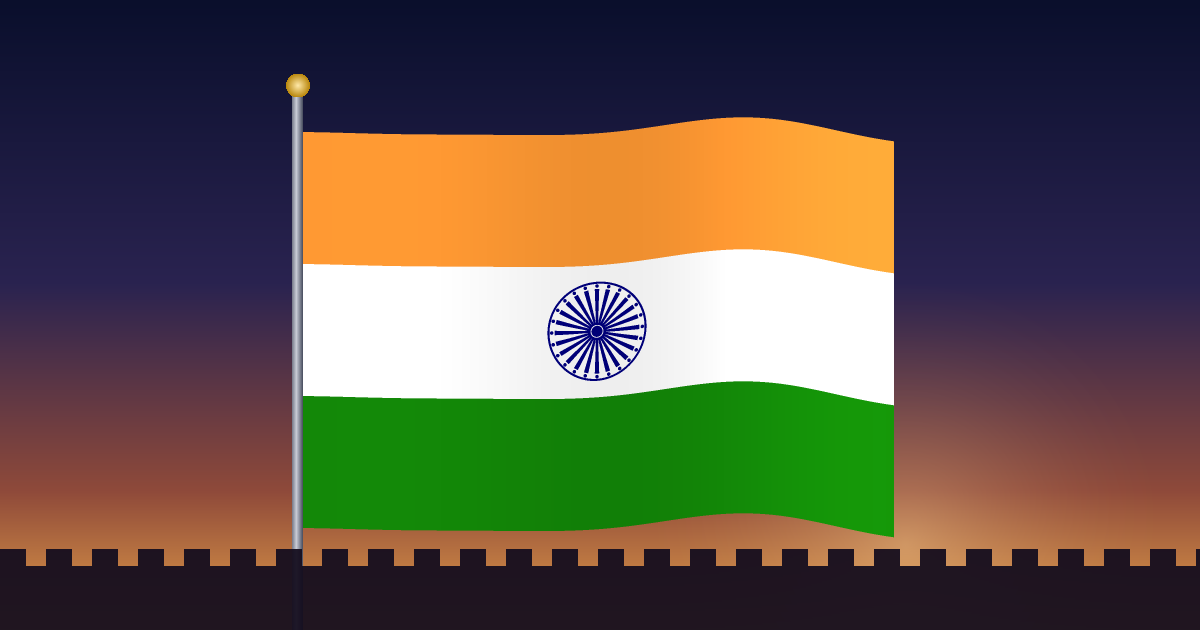
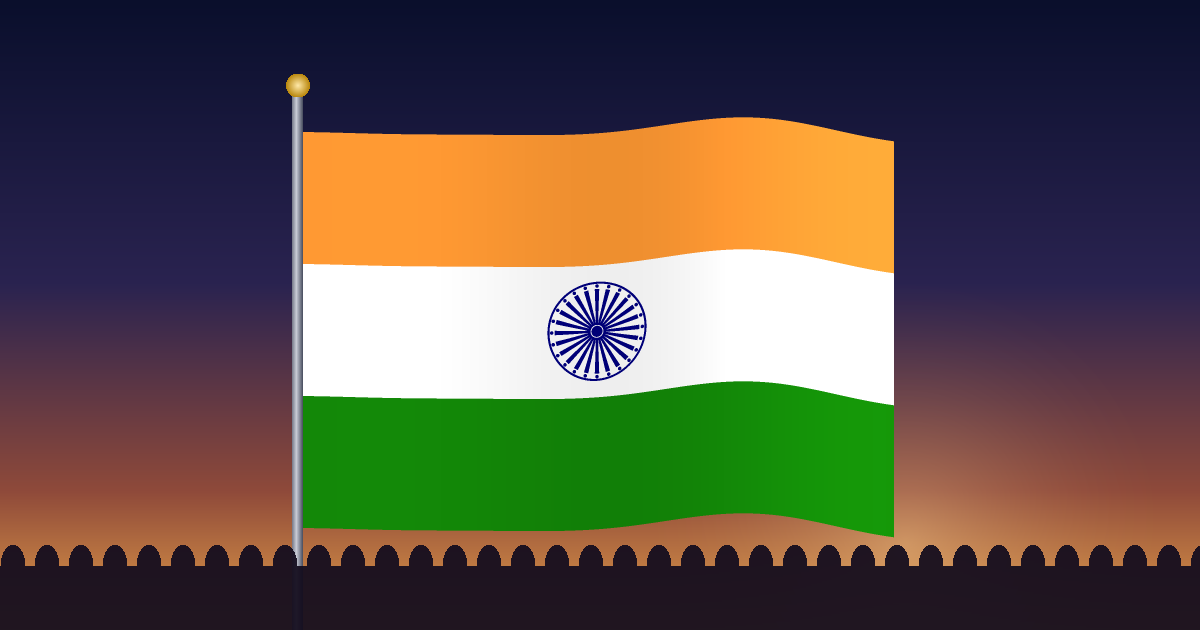
Put the Red Fort behind the flagpole
Replaces the generic square-notched ramparts with Lal Qila, drawn as SVG
rather than a raster illustration for two reasons: it can be tinted, so
the stonework warms with the sky at dawn instead of staying stuck at
night behind it, and it stays in the same visual language as the flags
and pole. Costs 8KB for both files.

Two SVGs, not one picture, so the wall tiles to any screen width while
the gate stays a fixed piece:

- fort-wall.svg: a seamlessly tiling curtain wall. Merlon pitch divides
  the tile width exactly so the repeat is invisible. Merlons are pointed
  lotus buds, which is what distinguishes Red Fort parapets from generic
  European crenellation.
- fort-gate.svg: the Lahori Gate, where the flag is really hoisted from,
  parked behind the pole so the pole stands on its central block. Sized
  by width with a vw cap, since a gate scaled off --pole-h and centred
  on the pole ran off the left edge of a phone screen.

Plinth band moved to CSS: the two SVGs render at different heights, so a
band baked into each stepped at the join.

Also, for consistency, the share card and the certificate now use the
same lotus-bud merlon profile. Hardened the og.png pixel writer to round
its coordinates while fixing that up — it indexes a Uint8Array, where a
fractional index is dropped silently rather than rounded, and the new
curved merlon line turned most of the wall into a picket fence.

Changed region(s): [[0.0, 0.8444, 0.6475, 0.9048], [0.6783, 0.8444, 1.0, 0.9048]]

diff --git a/styles.css b/styles.css
@@ -168,38 +168,61 @@ body {
 }
 .stage.is-dawn .sky__haze { opacity: 1; }
 
-/* ------------------------------------------------------------ the ramparts */
+/* ------------------------------------------------------------- the Red Fort */
 
 .ground { position: absolute; inset: auto 0 0 0; height: 22%; }
 
-/* Crenellations via a repeating-linear-gradient mask: one element, no nodes. */
-.ramparts {
+/* The curtain wall is one seamlessly tiling SVG repeated across the horizon, so
+   it costs a single cached request at any screen width. */
+.wall {
   position: absolute;
   inset: auto 0 0 0;
   height: 100%;
-  background: #0c0817;
-  --merlon: repeating-linear-gradient(to right,
-    #000 0 26px, transparent 26px 46px);
-  -webkit-mask:
-    var(--merlon) top / 46px 14px repeat-x,
-    linear-gradient(#000 0 0) bottom / 100% calc(100% - 14px) no-repeat;
-  mask:
-    var(--merlon) top / 46px 14px repeat-x,
-    linear-gradient(#000 0 0) bottom / 100% calc(100% - 14px) no-repeat;
+  background: url('fort-wall.svg') repeat-x bottom center;
+  background-size: auto 100%;
 }
-.ramparts--far {
-  height: 62%;
-  bottom: 78%;
-  background: #150d20;
-  opacity: 0.75;
-  --merlon: repeating-linear-gradient(to right, #000 0 18px, transparent 18px 33px);
-  -webkit-mask:
-    var(--merlon) top / 33px 10px repeat-x,
-    linear-gradient(#000 0 0) bottom / 100% calc(100% - 10px) no-repeat;
-  mask:
-    var(--merlon) top / 33px 10px repeat-x,
-    linear-gradient(#000 0 0) bottom / 100% calc(100% - 10px) no-repeat;
+
+/* The Lahori Gate, which is where the flag is really hoisted from, so the pole
+   stands on its central block.
+
+   Sized by width, not height: the pole sits about a quarter of the way across a
+   phone screen, and a gate scaled purely off --pole-h and centred on the pole
+   ran off the left edge there. The vw cap holds it on screen, and the offset is
+   a smaller share of the flag width than .rig uses so the pole lands inside the
+   central block at every size rather than out on a bastion. */
+.gate {
+  position: absolute;
+  bottom: 0;
+  left: 50%;
+  translate: calc(-50% + var(--flag-w) * -0.3) 0;
+  width: min(calc(var(--pole-h) * 0.95), 66vw);
+  aspect-ratio: 560 / 390;
+  background: url('fort-gate.svg') no-repeat bottom center;
+  background-size: 100% 100%;
 }
+
+/* Drawn here rather than baked into either SVG: the wall and the gate are shown
+   at different heights, so a band inside each would step at the join. */
+.ground__plinth {
+  position: absolute;
+  inset: auto 0 0 0;
+  height: 15%;
+  background: #120b1b;
+}
+
+/* Sunrise reaching the stonework, so the fort warms with the sky instead of
+   staying stuck at night behind it. */
+.ground__glow {
+  position: absolute;
+  inset: -40% 0 0 0;
+  opacity: 0;
+  background: linear-gradient(to top,
+    rgb(255 146 54 / 0.34) 0%, rgb(255 120 40 / 0.12) 42%, transparent 100%);
+  transition: opacity 2800ms ease-out;
+  mix-blend-mode: soft-light;
+  pointer-events: none;
+}
+.stage.is-dawn .ground__glow { opacity: 1; }
 
 /* ============================================================== flagpole */
 
@@ -245,23 +268,25 @@ body {
   background: #2b2f3d;
 }
 
+/* A mounting block, not a plinth: the pole stands on the gate's own rampart, so
+   anything bigger than this just blanks out the masonry behind it. */
 .pole__base {
   position: absolute;
-  left: 4px; bottom: -10px;
-  width: clamp(64px, 12vw, 104px); height: 16px;
+  left: 4px; bottom: -7px;
+  width: clamp(34px, 5vw, 52px); height: 11px;
   translate: -50% 0;
-  border-radius: 4px 4px 2px 2px;
-  background: linear-gradient(to bottom, #2a2233, #150f1d);
-  box-shadow: 0 8px 26px rgb(0 0 0 / 0.55);
+  border-radius: 3px 3px 1px 1px;
+  background: linear-gradient(to bottom, #322940, #171020);
+  box-shadow: 0 5px 16px rgb(0 0 0 / 0.5);
 }
 .pole__base::after {
   content: '';
   position: absolute;
-  left: 50%; top: -5px;
-  width: 62%; height: 6px;
+  left: 50%; top: -4px;
+  width: 58%; height: 5px;
   translate: -50% 0;
-  border-radius: 3px;
-  background: linear-gradient(to bottom, #3b3145, #241c2f);
+  border-radius: 2px;
+  background: linear-gradient(to bottom, #443954, #292036);
 }
 
 /* ------------------------------------------------------------ the carriage */

diff --git a/certificate.js b/certificate.js
@@ -143,11 +143,23 @@ window.Certificate = (() => {
     ctx.fillStyle = glow;
     ctx.fillRect(0, 0, W, H);
 
-    /* ramparts, kept low enough to stay clear of the text block */
+    /* Red Fort ramparts, kept low enough to stay clear of the text block. The
+       merlons are pointed lotus buds, matching the fort in the app — square
+       notches read as generic European castle. */
     const wallTop = H - 86;
     ctx.fillStyle = '#100a1c';
-    ctx.fillRect(0, wallTop + 22, W, 86);
-    for (let x = 0; x < W; x += 54) ctx.fillRect(x, wallTop, 31, 26);
+    ctx.fillRect(0, wallTop + 24, W, 86);
+    const pitch = 40;
+    const mw = 29;
+    for (let x = 0; x < W; x += pitch) {
+      ctx.beginPath();
+      ctx.moveTo(x, wallTop + 26);
+      ctx.lineTo(x, wallTop + 13);
+      ctx.quadraticCurveTo(x + mw / 2, wallTop - 12, x + mw, wallTop + 13);
+      ctx.lineTo(x + mw, wallTop + 26);
+      ctx.closePath();
+      ctx.fill();
+    }
 
     /* flagpole, planted into the wall rather than stopping in mid-air */
     const poleX = 132;

diff --git a/index.html b/index.html
@@ -49,9 +49,14 @@
     <div class="sky__haze"></div>
   </div>
 
+  <!-- The Red Fort, back to front: the curtain wall along the horizon, the
+       Lahori Gate parked behind the flagpole (which is where the flag is really
+       hoisted from), then the plinth and the dawn haze. -->
   <div class="ground" aria-hidden="true">
-    <div class="ramparts"></div>
-    <div class="ramparts ramparts--far"></div>
+    <div class="wall"></div>
+    <div class="gate"></div>
+    <div class="ground__plinth"></div>
+    <div class="ground__glow"></div>
   </div>
 
   <div class="rig" id="rig">
